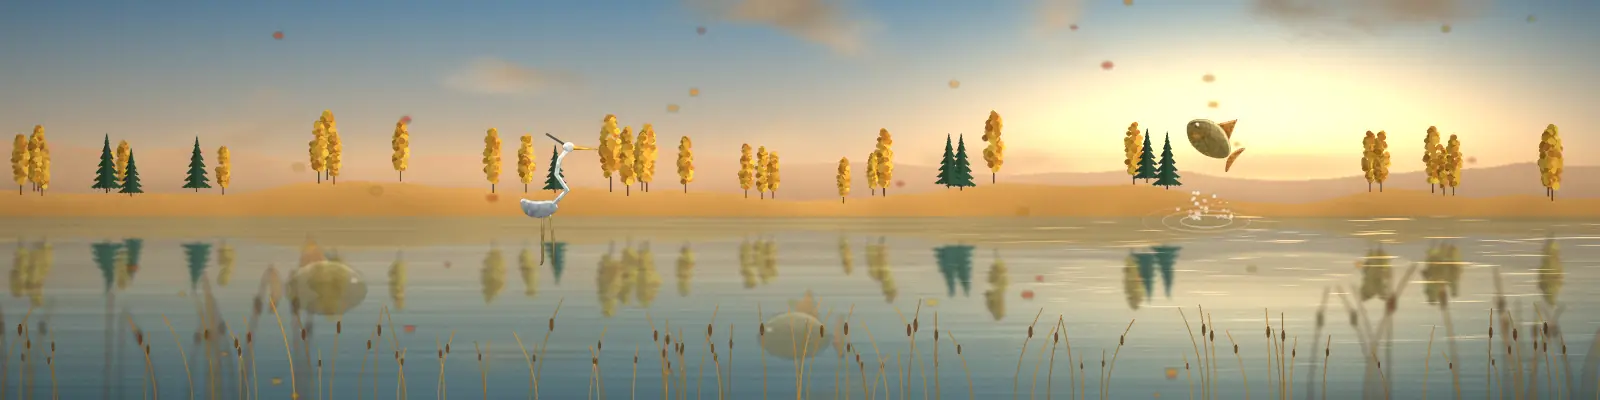
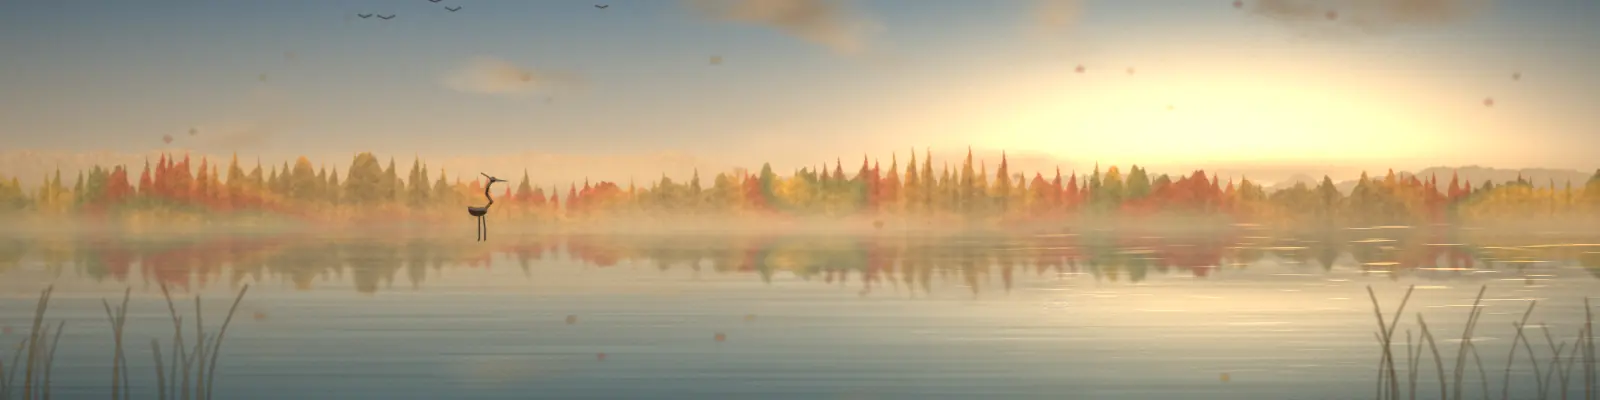
Fonds de saison sobres : forêts en couches brumeuses, lac à reflets, silhouettes lointaines (fini le style dessin)
Claude-Session: https://claude.ai/code/session_01Qi4Jb4mz7gGxLQyUsrXTnn

diff --git a/sw.js b/sw.js
@@ -1,4 +1,4 @@
-const V="cp360-v40",TILES="cp360-tiles",STATIC="cp360-static",SHELL=["./","index.html","manifest.webmanifest","icon.svg"],MAXT=500;
+const V="cp360-v41",TILES="cp360-tiles",STATIC="cp360-static",SHELL=["./","index.html","manifest.webmanifest","icon.svg"],MAXT=500;
 self.addEventListener("install",e=>{e.waitUntil(caches.open(V).then(c=>c.addAll(SHELL)).then(()=>self.skipWaiting()))});
 self.addEventListener("activate",e=>{e.waitUntil(caches.keys().then(k=>Promise.all(k.filter(x=>![V,TILES,STATIC].includes(x)).map(x=>caches.delete(x)))).then(()=>self.clients.claim()))});
 async function trim(c,n){const k=await c.keys();if(k.length>n)await Promise.all(k.slice(0,k.length-n).map(x=>c.delete(x)))}

diff --git a/source/render_saison2.py b/source/render_saison2.py
@@ -1,0 +1,148 @@
+# Rendu 2 — ambiance sobre / cinéma : forêts continues en couches brumeuses, eau à reflets, silhouettes lointaines (pas de dessins « cartoon »)
+import numpy as np, cv2, math, random, os, sys
+from PIL import Image, ImageDraw, ImageFilter
+import render_saison as R
+from render_saison import hx,lerp,sm,fbm1,fbm2,sky,layer,grade,water_scene,deer_parts,heron_parts,render_parts,mist,W,H,OUT
+def forest(img,sp,hc,seed,wl=None):
+    ys=np.arange(H)[:,None].astype(np.float32);x=np.arange(W)
+    base=(sp['base']+sp.get('amp',.02)*(fbm1(W,sp.get('cells',6),seed)-.5)*2)*H
+    rel=sp.get('relief',14);top=base.copy()
+    rng=np.random.default_rng(seed)
+    kind=sp['kind']
+    if kind in('dec','mixed'):
+        d=(fbm1(W,int(W/sp.get('gr',34)),seed+3,4,.62)-.5)*2*rel+(fbm1(W,int(W/9),seed+4,3,.6)-.5)*rel*.5
+        top=np.minimum(top,base-rel*.8+ -d)
+    if kind in('con','mixed'):
+        sc=sp.get('spacing',9);hh=np.zeros(W,np.float32);xs=np.arange(-20,W+20,sc)
+        for xc in xs+rng.uniform(-sc*.4,sc*.4,len(xs)):
+            h=rng.uniform(sp['hmin'],sp['hmax'])*(.6+.8*fbm1(W,5,seed+9)[int(np.clip(xc,0,W-1))]);w=h*.2+2
+            prof=np.clip(h*(1-np.abs(x-xc)/w),0,None)
+            prof=prof*(0.9+0.1*np.sign(np.sin((x-xc)*.9))) # dents de scie légères
+            hh=np.maximum(hh,prof)
+        topc=base-hh
+        top=topc if kind=='con' else np.minimum(top,topc)
+    if wl is not None: top=np.minimum(top,wl)
+    m=(ys>=top[None,:]).astype(np.float32);m=cv2.GaussianBlur(m,(0,0),.7)
+    pal=[hx(c) for c in sp['cols']]
+    p=fbm2(H,W,3,9,seed+5,4)[...,None];p=np.clip((p-.25)*1.7,0,1)
+    n=len(pal);idx=p*(n-1);i0=np.floor(idx).astype(int)[...,0];i1=np.clip(i0+1,0,n-1);f=idx-np.floor(idx)
+    P=np.stack(pal);col=P[i0]*(1-f)+P[i1]*f
+    tex=fbm2(H,W,90,300,seed+9,3,.65)[...,None]
+    depth=np.clip((ys-top[None,:])/(rel+sp.get('shade',70)),0,1)[...,None]
+    rim=np.exp(-(ys-top[None,:])/16)[...,None]
+    bright=(.78+.55*tex)*(1-.38*depth)+sp.get('rim',.18)*rim
+    c=col*bright
+    c=lerp(c,hx(hc),sp['t'])
+    out=img*(1-m[...,None])+c*m[...,None]
+    return out,top
+def meadow(img,sc,y0,seed):
+    ys=np.arange(H)[:,None].astype(np.float32)
+    t=np.clip((ys-y0)/(H-y0),0,1)
+    c0,c1=hx(sc['field'][0]),hx(sc['field'][1])
+    base=lerp(c0,c1,t[...,None]**.8)
+    st=fbm2(H,W,70,5,seed+1,4)[...,None]
+    fine=fbm2(H,W,200,500,seed+2,3,.7)[...,None]
+    c=base*(.70+.5*st*.7+.75*fine*(.5+t[...,None]))
+    m=(ys>=y0).astype(np.float32);m=cv2.GaussianBlur(m,(0,0),1.0)
+    out=img*(1-m[...,None])+c*m[...,None]
+    # flou de profondeur progressif au premier plan
+    bl=cv2.GaussianBlur(out,(0,0),3.2)
+    k=sm(ys/H,.82,1.0)[...,None]
+    return out*(1-k)+bl*k
+def silhouette(img,parts,s,x,y,seed,hc,haze,alpha=.9,flip=False):
+    pal=lambda c:(c,c,c)
+    P=[(t,d,pal(sc_),w) for (t,d,_p,w),sc_ in zip(parts,[sp for sp in [None]*len(parts)])] if False else None
+    return img
+def sil_parts(parts,col):
+    return [(t,d,(col,col,col),w) for t,d,_p,w in parts]
+def birds(img,rnd,n,y0,y1,col,s0,s1):
+    lay,d=layer()
+    cx=rnd.uniform(.2,.8)*W*2;cy=rnd.uniform(y0,y1)*2
+    for i in range(n):
+        x=cx+rnd.uniform(-160,160)*2;y=cy+rnd.uniform(-40,40);s=rnd.uniform(s0,s1)*2
+        d.line([(x-s,y-s*.35),(x,y),(x+s,y-s*.35)],fill=col+(210,),width=3,joint='curve')
+    a=np.asarray(lay.resize((W,H),Image.LANCZOS).filter(ImageFilter.GaussianBlur(.5)),dtype=np.float32)/255
+    return img*(1-a[...,3:4])+a[...,:3]*a[...,3:4]
+def boat(img,x,y,s,col,hc):
+    lay,d=layer();X,Y=x*2,y*2;S=s*2
+    d.polygon([(X-34*S,Y-6*S),(X+36*S,Y-6*S),(X+26*S,Y+3*S),(X-24*S,Y+3*S)],fill=col+(255,))
+    d.ellipse([X-3*S,Y-30*S,X+3*S,Y-24*S],fill=col+(255,))
+    d.polygon([(X-5*S,Y-24*S),(X+5*S,Y-24*S),(X+6*S,Y-6*S),(X-6*S,Y-6*S)],fill=col+(255,))
+    d.line([(X+4*S,Y-20*S),(X+40*S,Y-44*S)],fill=col+(255,),width=max(2,int(1.3*S)))
+    d.line([(X+40*S,Y-44*S),(X+44*S,Y-2*S)],fill=(60,60,60,160),width=1)
+    for rx,al in ((10,120),(20,80),(32,45)):
+        d.ellipse([X+44*S-rx*S*1.2,Y-1.5*S-rx*S*.18,X+44*S+rx*S*1.2,Y-1.5*S+rx*S*.18],outline=(255,255,255,al),width=2)
+    a=np.asarray(lay.resize((W,H),Image.LANCZOS).filter(ImageFilter.GaussianBlur(.5)),dtype=np.float32)/255
+    a[...,:3]=lerp(a[...,:3],hx(hc),.18)
+    return img*(1-a[...,3:4])+a[...,:3]*a[...,3:4]
+def rings(img,x,y,rnd,col='#FFFFFF'):
+    lay,d=layer();X,Y=x*2,y*2
+    for r,al in ((12,150),(26,100),(44,60),(66,30)):
+        d.ellipse([X-r*2,Y-r*.42,X+r*2,Y+r*.42],outline=(255,255,255,al),width=2)
+    a=np.asarray(lay.resize((W,H),Image.LANCZOS).filter(ImageFilter.GaussianBlur(.6)),dtype=np.float32)/255
+    return img*(1-a[...,3:4])+a[...,:3]*a[...,3:4]
+def veil(img,sc,seed):
+    # voile de brume global bas + lueur
+    return mist(img,.48,.66,sc['horizon'],sc.get('fog',.55),seed)
+def build2(key,sc):
+    rnd=random.Random(sc['seed']);img=sky(sc);hc=sc['horizon'];mode=key[1]
+    wl=int(sc['wl']*H) if mode=='peche' else None
+    tops=[]
+    for i,sp in enumerate(sc['layers']):
+        img,top=forest(img,sp,hc,sc['seed']+i*11,wl)
+        tops.append(top)
+        if i<len(sc['layers'])-1: img=mist(img,sp['base']-.05,sp['base']+.06,hc,sc.get('fog',.5)*(1-.18*i),sc['seed']+i)
+    if mode=='chasse':
+        img=meadow(img,sc,int(sc['meadow']*H),sc['seed'])
+        for (x,y,s,flip) in sc.get('far',[]):
+            parts=sil_parts(deer_parts(('#2A211B',)*3,sc.get('stag',True)),sc['silcol'])
+            img=render_parts(parts,s,(x*W,y*H),img,sc['seed'],flip,shadow=True,alpha=.92,blur=.5)
+        img=mist(img,sc['meadow']-.03,sc['meadow']+.07,hc,sc.get('fog',.5)*.6,sc['seed']+3)
+    else:
+        img=water_scene(img,wl,sc,rnd)
+        img=mist(img,sc['wl']-.05,sc['wl']+.05,hc,sc.get('fog',.5)*.9,sc['seed']+4)
+        for (x,y) in sc.get('rise',[]): img=rings(img,x*W,y*H,rnd)
+        if sc.get('boat'): bx,by,bs=sc['boat'];img=boat(img,bx*W,by*H,bs,tuple(int(v*255) for v in hx(sc['silcol'])),hc)
+        if sc.get('heron'): hx_,hy_,hs,fl=sc['heron'];img=render_parts(sil_parts(heron_parts(),sc['silcol']),hs,(hx_*W,hy_*H),img,sc['seed'],fl,shadow=False,alpha=.9,blur=.4)
+        if sc.get('reeds'):
+            r=sc['reeds'];img=R.reeds(img,rnd,r[0],None,[rnd.uniform(0,W*.14) if k%2 else rnd.uniform(W*.86,W) for k in range(r[1])],H+4,r[2],r[3],1.2,.9)
+    if sc.get('birds'): img=birds(img,rnd,*sc['birds'])
+    pt=sc.get('part')
+    if pt: img=R.specks(img,rnd,pt['n'],0,H,pt['cols'],pt['r0'],pt['r1'],pt.get('blur',1.6),pt.get('al',.5),pt.get('shape','ell'))
+    return grade(img,sc,sc['seed'])
+def L(kind,base,cols,t,**k): return dict(kind=kind,base=base,cols=cols,t=t,**k)
+SC={
+('printemps','chasse'):dict(seed=11,sky=[(0,'#8FAFC4'),(.5,'#CFDDD8'),(1,'#F1EAD2')],sun=(.74,.38),suncol='#FFE9B0',sunI=.5,sunk=7,cloud=.45,cloudcol='#F7F3E6',horizon='#E4E6D4',fog=.6,
+  layers=[L('dec',.50,['#7B9BA6','#8CA89A'],.62,relief=8,gr=60,amp=.05,cells=4),L('dec',.55,['#6E8C6A','#8CA66C','#9DB57A'],.45,relief=14,gr=40,amp=.03),L('mixed',.60,['#5D7E4C','#7F9A55','#9CB466','#E6E2D8'],.28,relief=22,gr=30,hmin=20,hmax=44,spacing=14,amp=.02,cells=8)],
+  meadow=.665,field=('#93A56C','#5F7A45'),far=[(.46,.69,.8,False)],silcol='#2C3326',stag=False,part=dict(n=80,cols=['#FFFFFF','#F3DCE4'],r0=1.2,r1=3,blur=1.8,al=.55),grade=(1.0,1.01,.98),sat=.92),
+('ete','chasse'):dict(seed=21,sky=[(0,'#4F7FA8'),(.5,'#9DBAC2'),(.85,'#F0CFA0'),(1,'#F6DFB8')],sun=(.8,.55),suncol='#FFC98A',sunI=.7,sunk=6,cloud=.38,cloudcol='#FFE4C4',horizon='#EFCFA6',fog=.5,
+  layers=[L('dec',.52,['#7C93A0','#8A9C98'],.6,relief=8,gr=60,amp=.05,cells=4),L('dec',.57,['#3F5C3C','#4F6E44'],.4,relief=16,gr=38,amp=.03),L('dec',.62,['#2F4A33','#3D5E3C','#566F3E'],.22,relief=24,gr=28,amp=.02,cells=8)],
+  meadow=.675,field=('#C9A559','#8F7634'),far=[(.5,.70,.85,False)],silcol='#2A261C',part=dict(n=70,cols=['#FFE9B0','#FFFFFF'],r0=1.2,r1=3.2,blur=1.8,al=.5),grade=(1.03,1.0,.95),sat=.95),
+('automne','chasse'):dict(seed=31,sky=[(0,'#7C98B0'),(.5,'#E5C8A4'),(1,'#F4DDB6')],sun=(.78,.5),suncol='#FFC070',sunI=.85,sunk=5,cloud=.4,cloudcol='#FFE0BC',horizon='#EBCBA0',fog=.7,
+  layers=[L('dec',.52,['#A98A74','#B79470'],.58,relief=8,gr=60,amp=.05,cells=4),L('mixed',.57,['#8C6B3A','#B7752F','#A4472B','#6E6A38'],.4,relief=16,gr=36,hmin=18,hmax=34,spacing=18,amp=.03),L('mixed',.62,['#7A4A26','#B8622A','#C78A2E','#8E3A28','#4B5A38'],.22,relief=24,gr=28,hmin=26,hmax=52,spacing=16,amp=.02,cells=8)],
+  meadow=.675,field=('#A98542','#6E5428'),far=[(.46,.70,.85,False),(.70,.74,.7,True)],silcol='#2B2118',birds=(9,.1,.28,(60,50,44),6,9),part=dict(n=40,cols=['#C8632B','#E39A2D'],r0=2.5,r1=5,blur=1.6,al=.6,shape='leaf'),grade=(1.04,1.0,.94),sat=.97),
+('hiver','chasse'):dict(seed=41,sky=[(0,'#7E91A8'),(.55,'#BAC2CC'),(1,'#E4D9D8')],sun=(.78,.5),suncol='#FFD0C4',sunI=.4,sunk=6,cloud=.62,cloudcol='#E6E8EE',horizon='#D8D8DE',fog=.8,
+  layers=[L('con',.52,['#7B8CA0'],.62,relief=6,hmin=10,hmax=22,spacing=7,amp=.04,cells=4),L('con',.57,['#475A66','#3F525C'],.45,relief=8,hmin=22,hmax=46,spacing=9,amp=.03),L('con',.63,['#27373A','#2F4440','#22313A'],.22,relief=8,hmin=40,hmax=84,spacing=11,amp=.02,cells=8,shade=100)],
+  meadow=.68,field=('#E5E9F0','#C3CEDD'),far=[(.46,.71,.85,False)],silcol='#2A2C30',stag=True,part=dict(n=180,cols=['#FFFFFF'],r0=1,r1=3,blur=1.0,al=.8),grade=(.98,1.0,1.03),sat=.85),
+('printemps','peche'):dict(seed=12,sky=[(0,'#8FAFC4'),(.5,'#CFDDD8'),(1,'#F1EAD2')],sun=(.74,.38),suncol='#FFE9B0',sunI=.5,sunk=7,cloud=.45,cloudcol='#F7F3E6',horizon='#E4E6D4',fog=.7,wl=.56,
+  layers=[L('dec',.43,['#7B9BA6','#8CA89A'],.62,relief=8,gr=60,amp=.04,cells=4),L('dec',.50,['#6E8C6A','#8CA66C','#9DB57A','#E6E2D8'],.4,relief=20,gr=30,amp=.02,cells=7)],
+  water='#9DB9B8',water2='#4F7482',refl=.72,glint=.4,boat=(.40,.64,.9),rise=[(.62,.74)],reeds=('#4C6A3C',40,60,120),silcol='#26301F',part=dict(n=60,cols=['#FFFFFF','#F3DCE4'],r0=1.2,r1=3,blur=1.8,al=.5)),
+('ete','peche'):dict(seed=22,sky=[(0,'#4F7FA8'),(.5,'#9DBAC2'),(.85,'#F0CFA0'),(1,'#F6DFB8')],sun=(.8,.55),suncol='#FFC98A',sunI=.7,sunk=6,cloud=.38,cloudcol='#FFE4C4',horizon='#EFCFA6',fog=.5,wl=.56,
+  layers=[L('dec',.45,['#7C93A0','#8A9C98'],.6,relief=8,gr=60,amp=.04,cells=4),L('dec',.50,['#2F4A33','#3D5E3C','#566F3E'],.3,relief=22,gr=28,amp=.02,cells=7)],
+  water='#6F9DB0',water2='#2F5A74',refl=.72,glint=.7,boat=(.62,.64,.9),rise=[(.30,.76)],reeds=('#3E5A33',40,60,120),silcol='#1E241A',part=dict(n=50,cols=['#FFE9B0','#FFFFFF'],r0=1.2,r1=3.2,blur=1.8,al=.45),grade=(1.03,1.0,.95)),
+('automne','peche'):dict(seed=32,sky=[(0,'#7C98B0'),(.5,'#E5C8A4'),(1,'#F4DDB6')],sun=(.78,.5),suncol='#FFC070',sunI=.85,sunk=5,cloud=.4,cloudcol='#FFE0BC',horizon='#EBCBA0',fog=.7,wl=.56,
+  layers=[L('dec',.43,['#A98A74','#B79470'],.58,relief=8,gr=60,amp=.04,cells=4),L('mixed',.50,['#8C6B3A','#B7752F','#A4472B','#6E6A38','#C78A2E'],.3,relief=22,gr=26,hmin=22,hmax=44,spacing=16,amp=.02,cells=7)],
+  water='#8A9C9A',water2='#3E5E66',refl=.74,glint=.6,heron=(.30,.60,.8,False),rise=[(.66,.76)],reeds=('#7A5A2E',40,60,120),silcol='#2B2118',birds=(8,.12,.3,(60,50,44),6,9),part=dict(n=36,cols=['#C8632B','#E39A2D'],r0=2.5,r1=5,blur=1.6,al=.55,shape='leaf'),grade=(1.04,1.0,.94)),
+('hiver','peche'):dict(seed=42,sky=[(0,'#7E91A8'),(.55,'#BAC2CC'),(1,'#E4D9D8')],sun=(.78,.5),suncol='#FFD0C4',sunI=.4,sunk=6,cloud=.62,cloudcol='#E6E8EE',horizon='#D8D8DE',fog=.8,wl=.56,
+  layers=[L('con',.44,['#7B8CA0'],.62,relief=6,hmin=10,hmax=22,spacing=7,amp=.04,cells=4),L('con',.51,['#27373A','#2F4440','#22313A'],.3,relief=8,hmin=30,hmax=64,spacing=10,amp=.02,cells=7,shade=90)],
+  water='#AEBFCB',water2='#6F8799',refl=.55,glint=.25,heron=(.62,.60,.8,True),reeds=('#8A7D66',40,50,100),silcol='#2A2C30',ice=True,part=dict(n=180,cols=['#FFFFFF'],r0=1,r1=3,blur=1.0,al=.8),grade=(.98,1.0,1.03),sat=.85),
+}
+if __name__=='__main__':
+    only=sys.argv[1:]
+    for key,sc in SC.items():
+        name=f'{key[0]}-{key[1]}'
+        if only and name not in only: continue
+        img=build2(key,sc)
+        p=os.path.join(OUT,f'saison-{name}.webp')
+        Image.fromarray((img*255).astype(np.uint8)).save(p,'WEBP',quality=76,method=6)
+        print(name,os.path.getsize(p)//1024,'Ko',flush=True)
